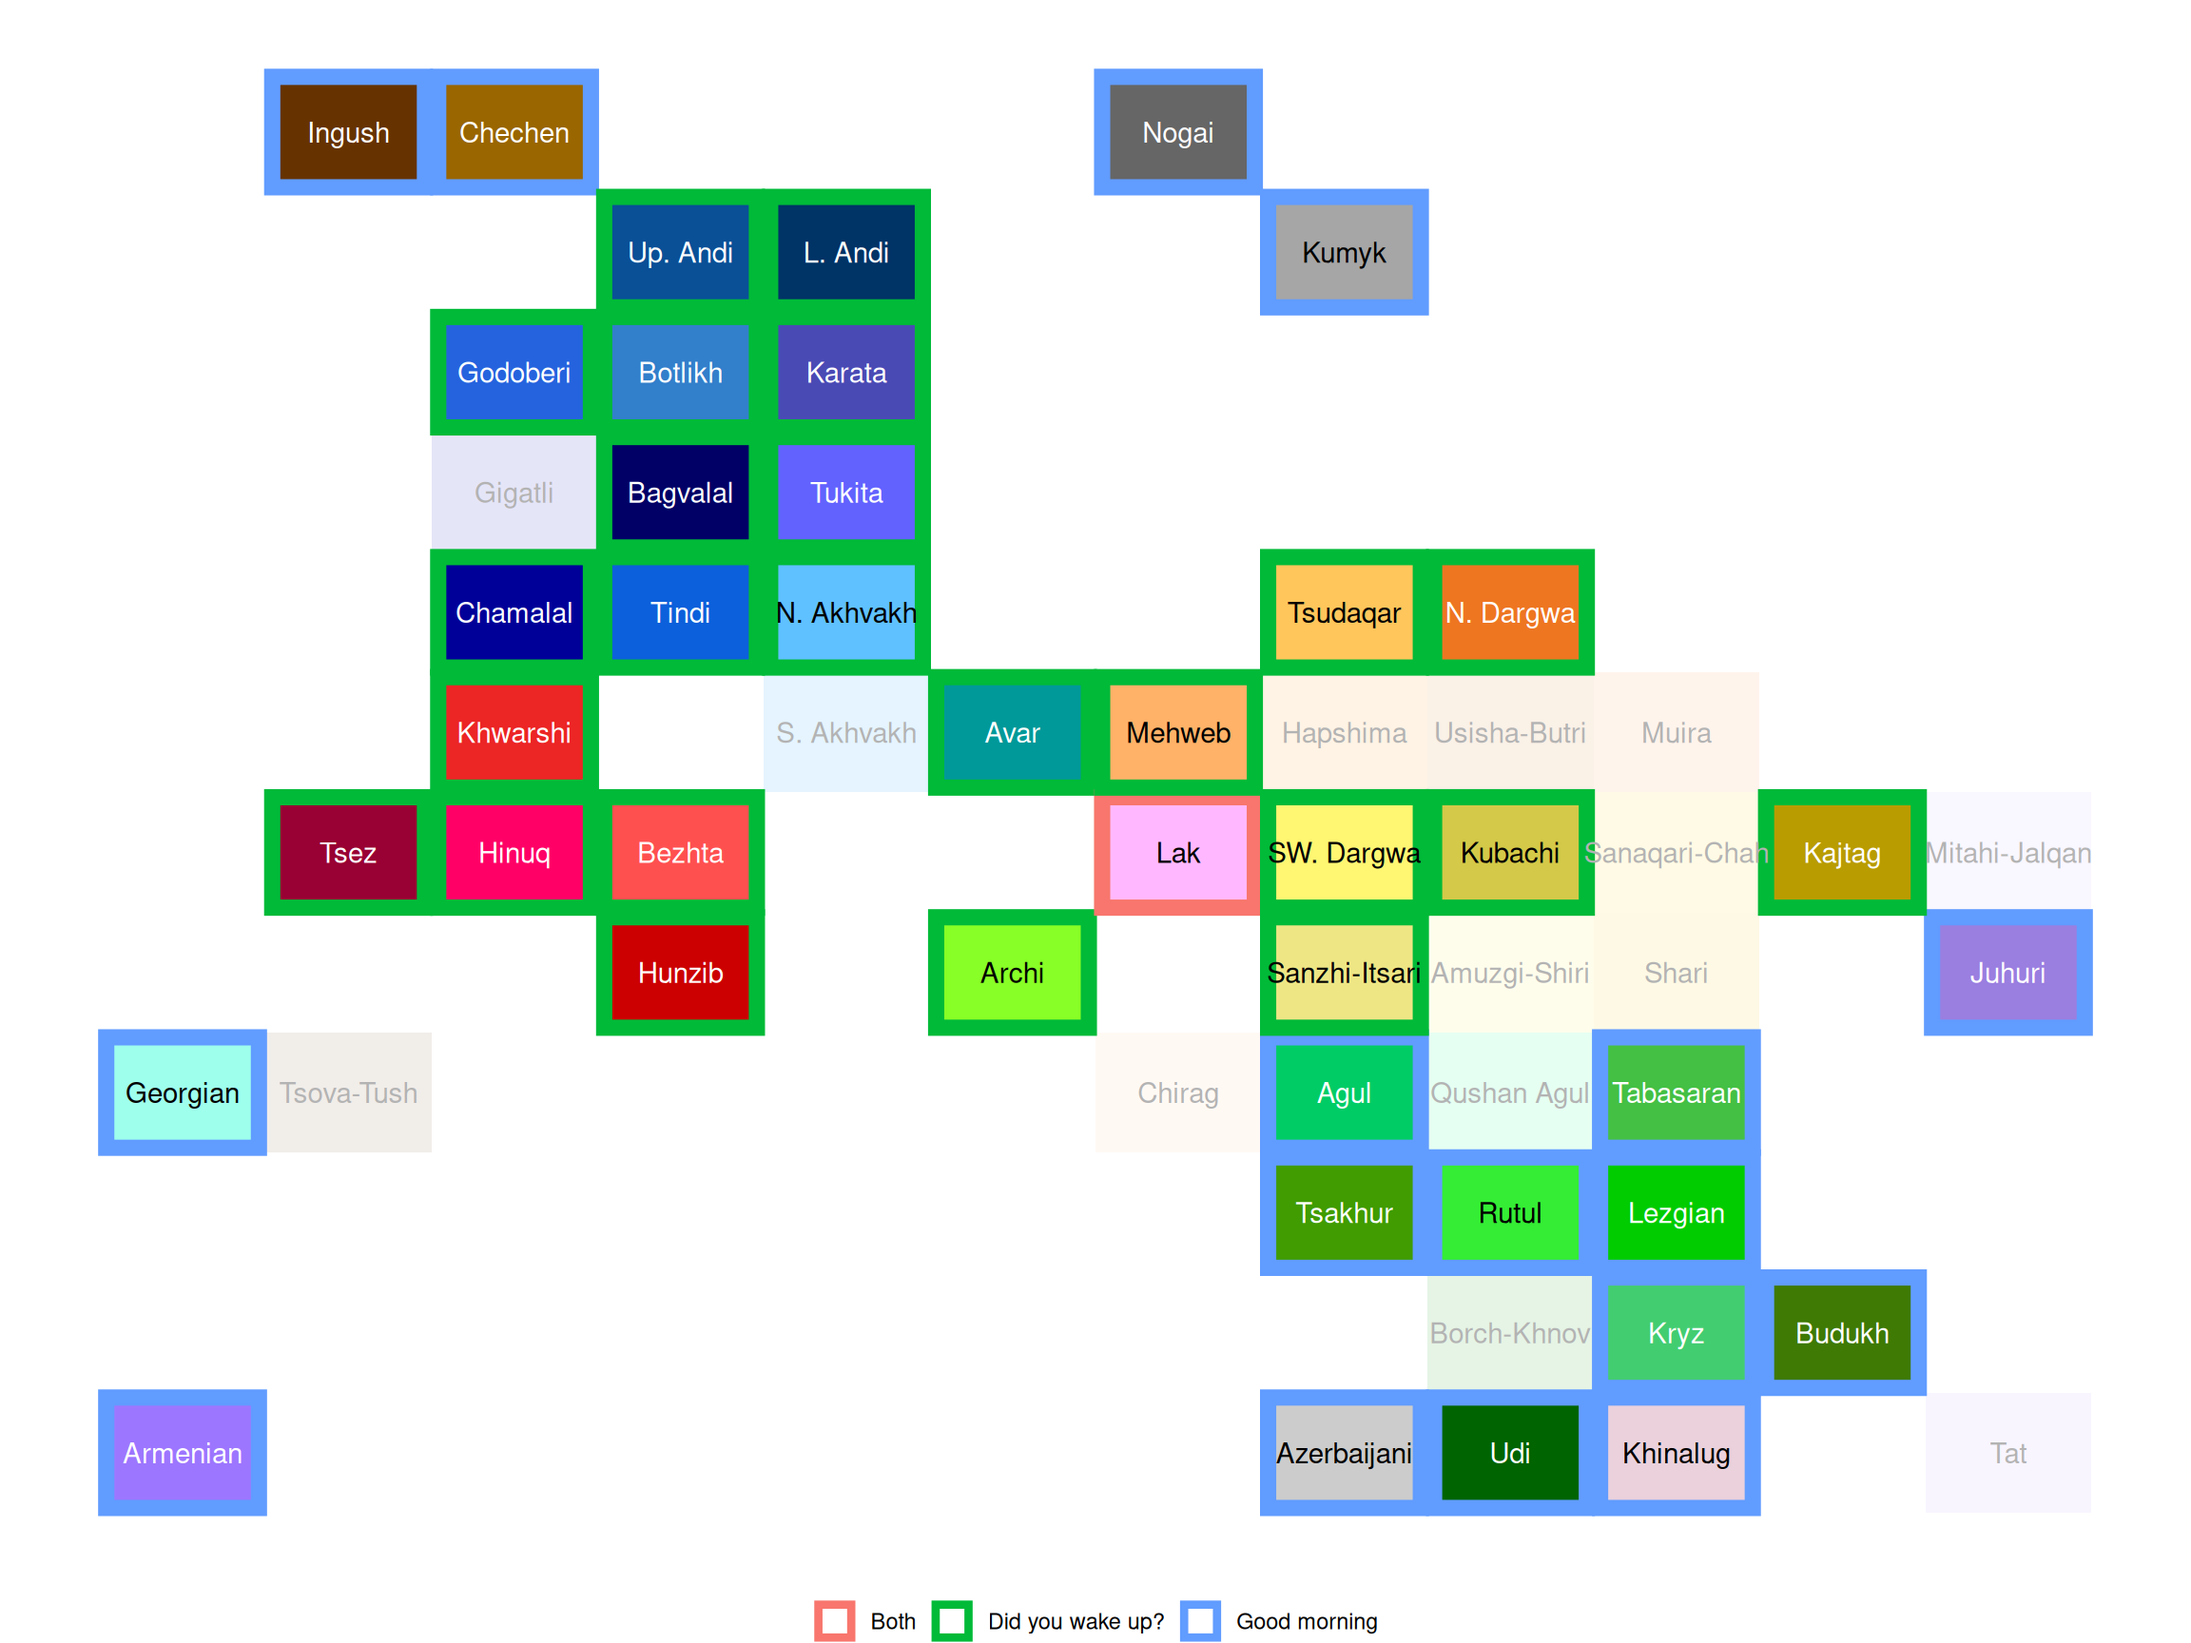
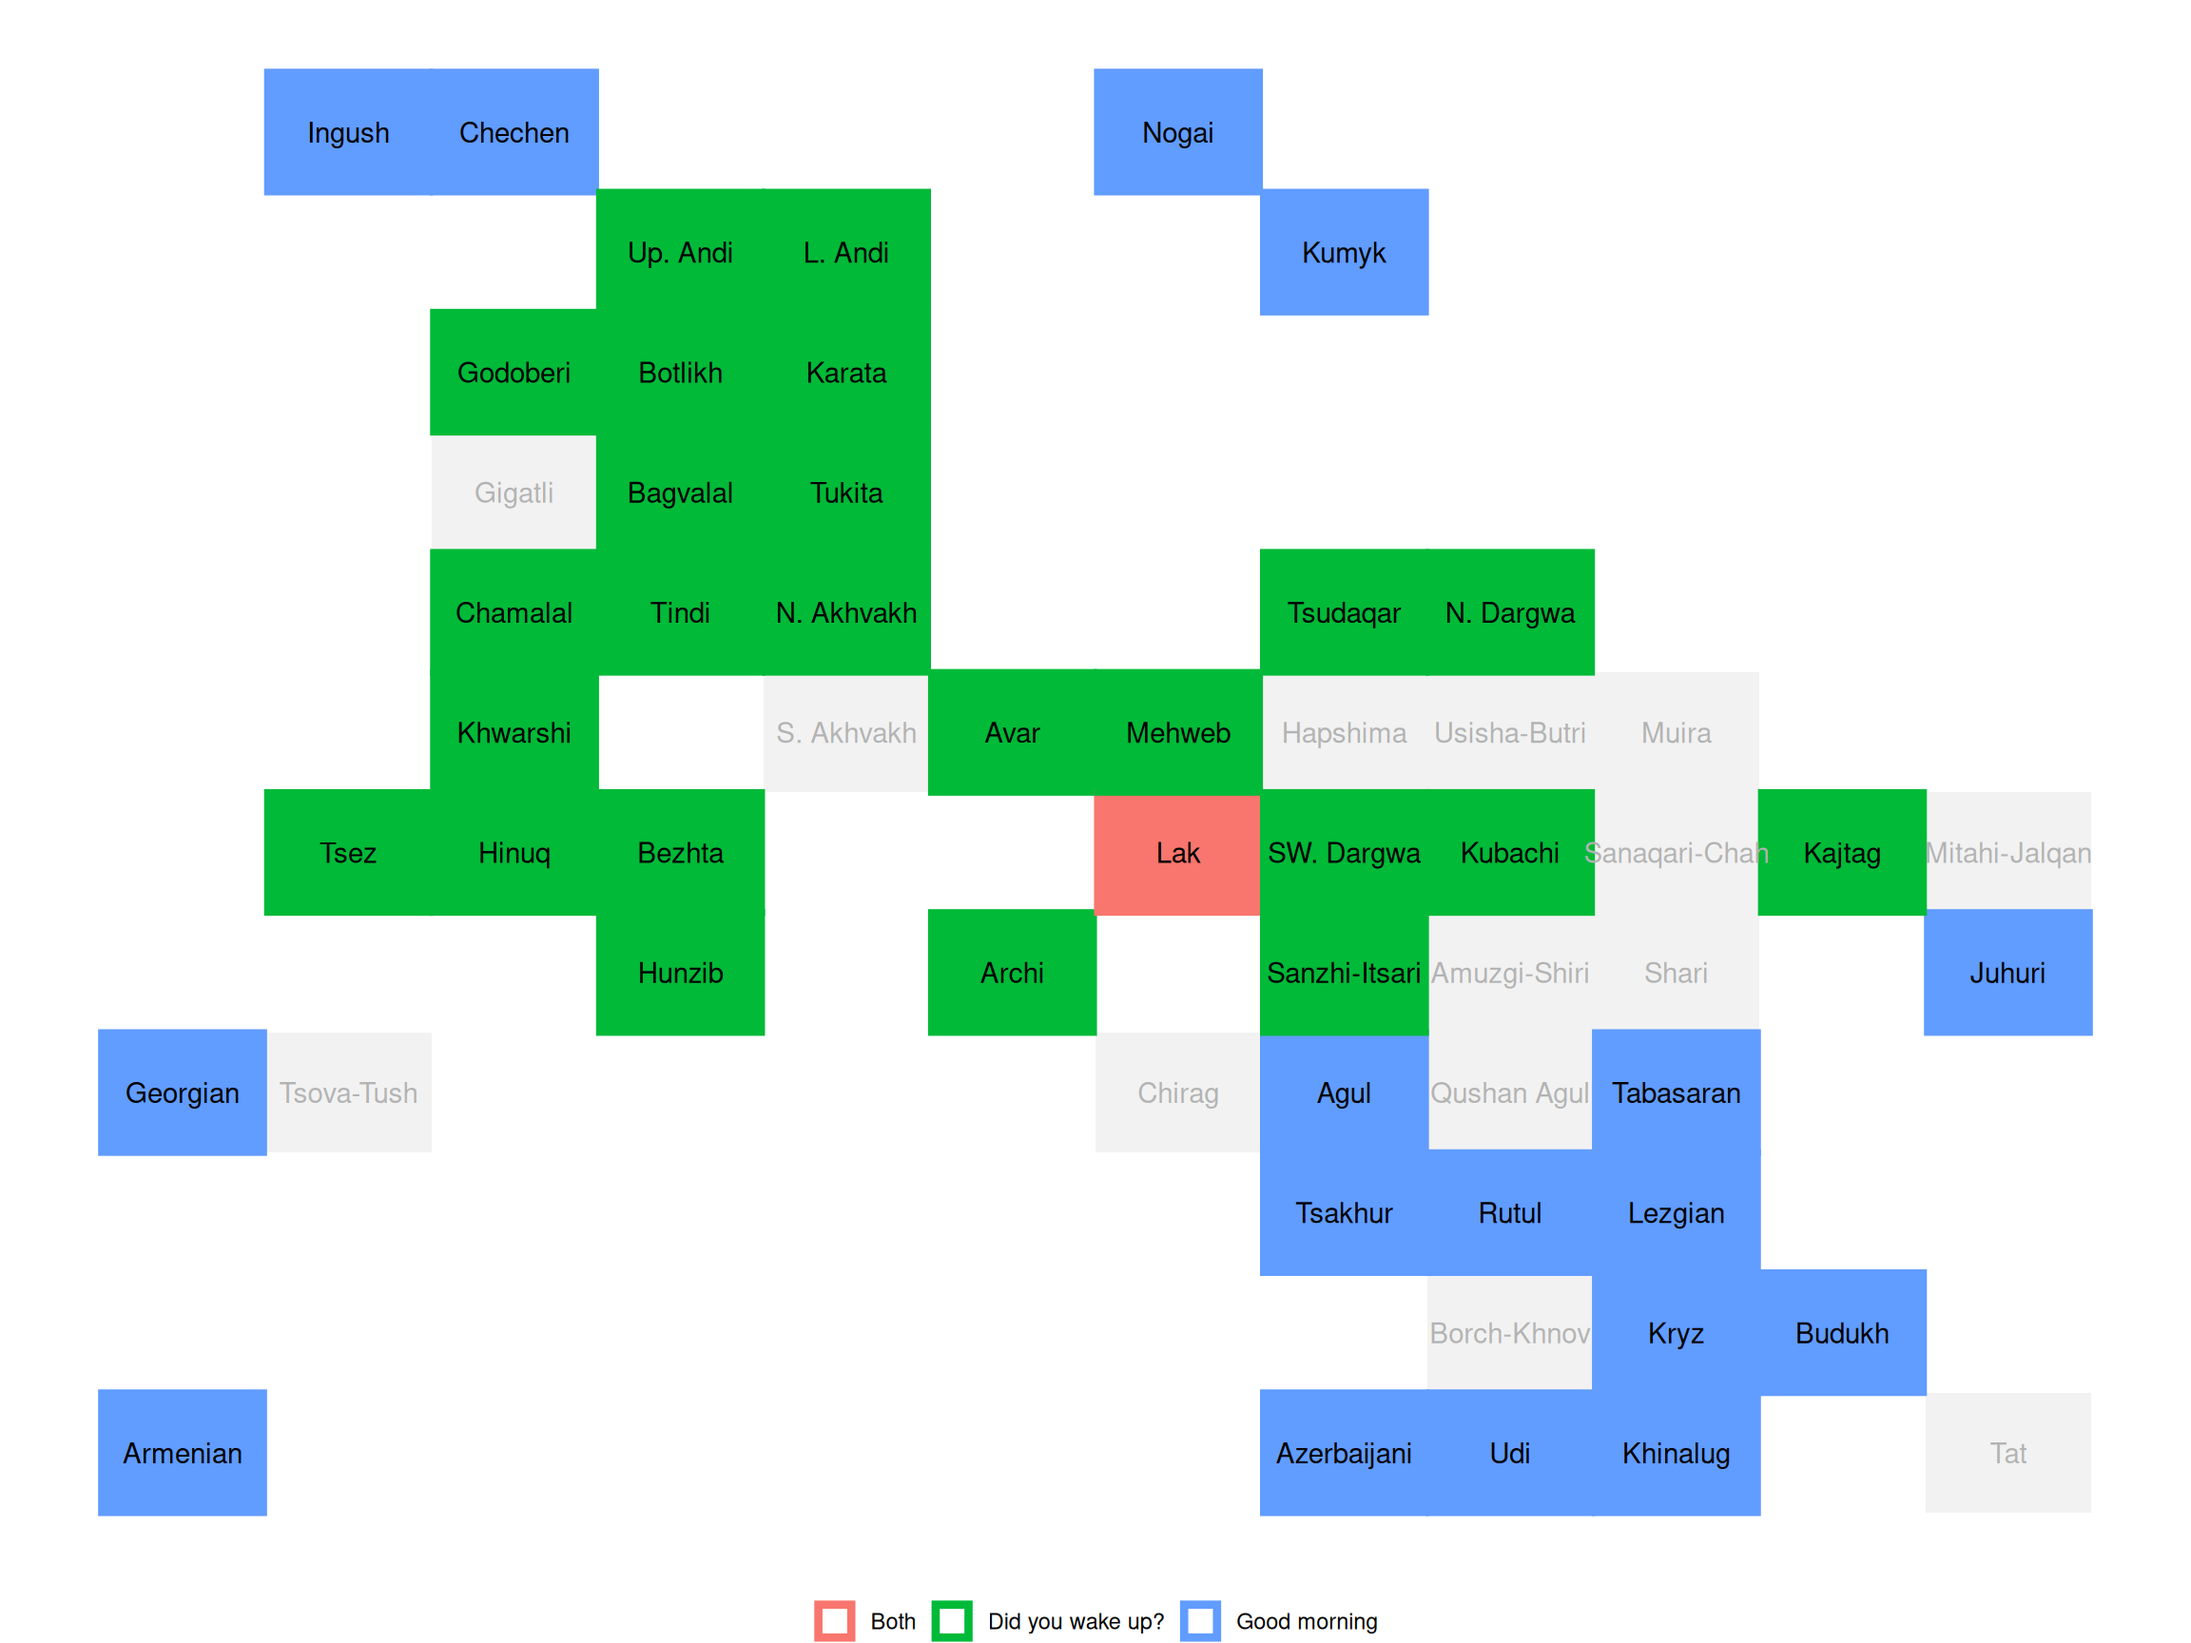
change fill_by default value

diff --git a/docs/index.html b/docs/index.html
@@ -129,7 +129,7 @@ pre > code.sourceCode > span > a:first-child::before { text-decoration: underlin
 </div>
 <div class="sourceCode cell-code" id="cb4"><pre class="sourceCode r code-with-copy"><code class="sourceCode r"><span id="cb4-1"><a href="#cb4-1" aria-hidden="true" tabindex="-1"></a><span class="fu">ec_tile_map</span>(ec_languages,</span>
 <span id="cb4-2"><a href="#cb4-2" aria-hidden="true" tabindex="-1"></a>            <span class="at">feature_column =</span> <span class="st">"morning_greetings"</span>,</span>
-<span id="cb4-3"><a href="#cb4-3" aria-hidden="true" tabindex="-1"></a>            <span class="at">fill_by =</span> <span class="st">"feature"</span>,</span>
+<span id="cb4-3"><a href="#cb4-3" aria-hidden="true" tabindex="-1"></a>            <span class="at">fill_by =</span> <span class="st">"language"</span>,</span>
 <span id="cb4-4"><a href="#cb4-4" aria-hidden="true" tabindex="-1"></a>            <span class="at">title =</span> <span class="st">"Morning greetings (Naccarato, Verhees 2021)"</span>)</span></code><button title="Copy to Clipboard" class="code-copy-button"><i class="bi"></i></button></pre></div>
 <div class="cell-output-display">
 <div>
